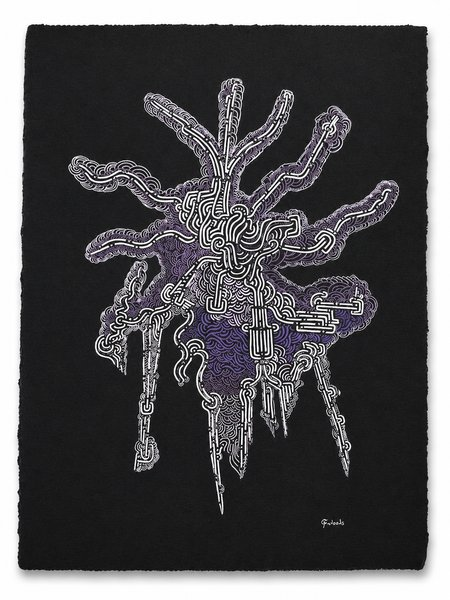
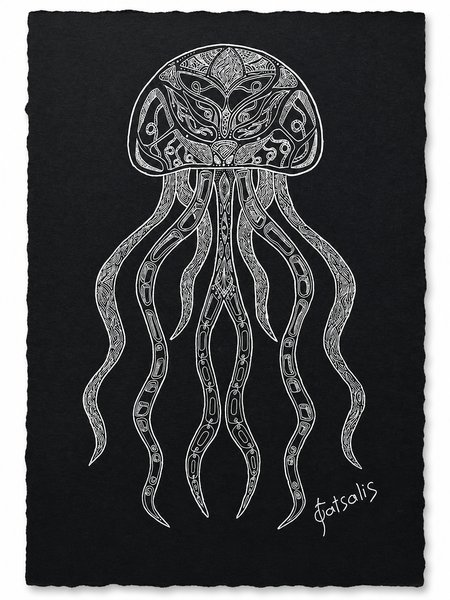
dsdfs

diff --git a/portofolio.html b/portofolio.html
@@ -282,10 +282,10 @@
                     </li>
                     <li>
                         <figure class="work">
-                            <button type="button" class="work__open" data-full="images/portofolio/display/little_fish.jpg?v=5" data-title="Little Fish" aria-label="Little Fish">
-                                <img src="images/portofolio/thumbs/little_fish.jpg?v=5" alt="Small fish-like creature drawn with intricate black and white abstract patterning." width="450" height="600" loading="lazy" decoding="async">
+                            <button type="button" class="work__open" data-full="images/portofolio/display/medusa.jpg?v=7" data-title="Medusa" aria-label="Medusa">
+                                <img src="images/portofolio/thumbs/medusa.jpg?v=7" alt="Jellyfish drawn in intricate white line patterns on black paper." width="450" height="600" loading="lazy" decoding="async">
                             </button>
-                            <figcaption class="work__label">Little Fish</figcaption>
+                            <figcaption class="work__label">Medusa</figcaption>
                         </figure>
                     </li>
                     <li>
@@ -294,14 +294,6 @@
                                 <img src="images/portofolio/thumbs/prometheus.jpg?v=4" alt="Mythological figure of Prometheus rendered in dense abstract line work and fire motifs." width="450" height="600" loading="lazy" decoding="async">
                             </button>
                             <figcaption class="work__label">Prometheus</figcaption>
-                        </figure>
-                    </li>
-                    <li>
-                        <figure class="work">
-                            <button type="button" class="work__open" data-full="images/portofolio/display/no_name_2.jpg?v=4" data-title="Unnamed System I" aria-label="Unnamed System I">
-                                <img src="images/portofolio/thumbs/no_name_2.jpg?v=4" alt="Abstract black and white drawing with circuit-like and organic intertwined forms." width="600" height="450" loading="lazy" decoding="async">
-                            </button>
-                            <figcaption class="work__label">Unnamed System I</figcaption>
                         </figure>
                     </li>
                     <li>
@@ -342,6 +334,14 @@
                                 <img src="images/portofolio/thumbs/hug_2.jpg" alt="Two abstract figures embracing, drawn in layered curved marks on dark paper." width="450" height="600" loading="lazy" decoding="async">
                             </button>
                             <figcaption class="work__label">Hug</figcaption>
+                        </figure>
+                    </li>
+                    <li>
+                        <figure class="work">
+                            <button type="button" class="work__open" data-full="images/portofolio/display/calma.jpg" data-title="Calma" aria-label="Calma">
+                                <img src="images/portofolio/thumbs/calma.jpg" alt="Circular portrait of a figure with pipe and purple smoke, drawn in dense blue and green swirling line patterns." width="450" height="600" loading="lazy" decoding="async">
+                            </button>
+                            <figcaption class="work__label">Calma</figcaption>
                         </figure>
                     </li>
                     <li>
@@ -394,10 +394,10 @@
                     </li>
                     <li>
                         <figure class="work">
-                            <button type="button" class="work__open" data-full="images/portofolio/display/medusa.jpg?v=5" data-title="Medusa" aria-label="Medusa">
-                                <img src="images/portofolio/thumbs/medusa.jpg?v=5" alt="Medusa portrait with snake hair rendered in dense mythological abstract drawing." width="450" height="600" loading="lazy" decoding="async">
+                            <button type="button" class="work__open" data-full="images/portofolio/display/medusa_figure.jpg?v=5" data-title="Gorgon" aria-label="Gorgon">
+                                <img src="images/portofolio/thumbs/medusa_figure.jpg?v=5" alt="Mythological gorgon figure with snake-like forms rendered in dense abstract line work." width="450" height="600" loading="lazy" decoding="async">
                             </button>
-                            <figcaption class="work__label">Medusa</figcaption>
+                            <figcaption class="work__label">Gorgon</figcaption>
                         </figure>
                     </li>
                     <li>